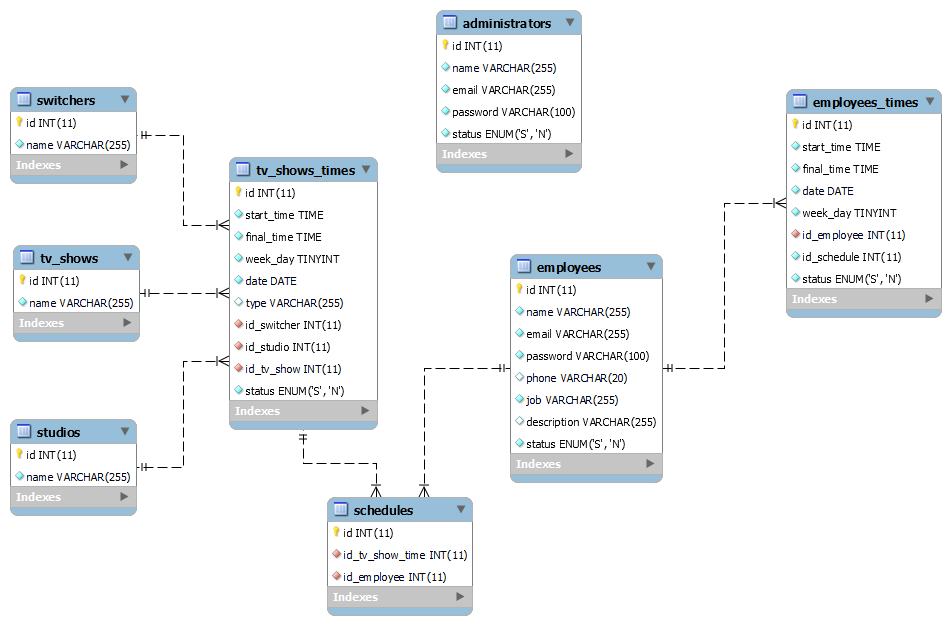
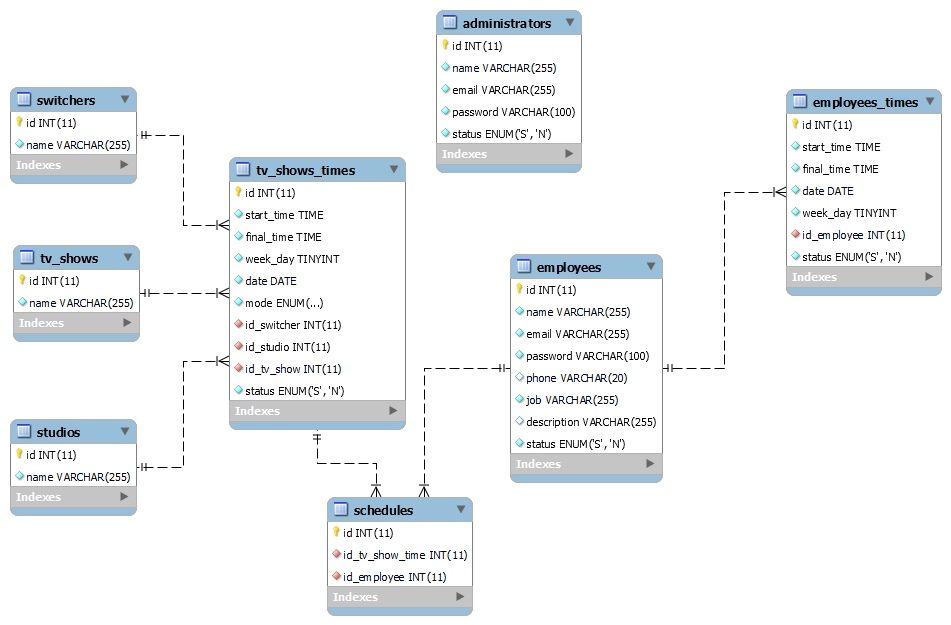
Ajustes no banco , MER, sessão e models

diff --git a/source/Models/EmployeeTime.php b/source/Models/EmployeeTime.php
@@ -14,11 +14,11 @@ class EmployeeTime extends Model
     protected ?int $id_employee;
     protected ?bool $status;
     protected static array $safe = ['id'];
-    protected static array $required = ['start_time', 'final_time', 'date', 'week_day'];
+    protected static array $required = ['start_time', 'final_time', 'date', 'week_day', 'id_employee'];
 
     public function __construct(
         ?int $id = null, ?string $startTime = null, ?string $finalTime = null,
-        ?string $date = null, ?int $week_day = null, ?int $idEmployee = null
+        ?string $date = null, ?int $week_day = null, ?int $id_employee = null
     )
     {
         $this->setId($id);
@@ -26,7 +26,7 @@ class EmployeeTime extends Model
         $this->setFinalTime($finalTime);
         $this->setDate($date);
         $this->setWeekDay($week_day);
-        $this->setIdEmployee($idEmployee);
+        $this->setIdEmployee($id_employee);
         $this->setStatus(true);
     }
 
@@ -90,9 +90,9 @@ class EmployeeTime extends Model
         return $this->id_employee;
     }
 
-    public function setIdEmployee($idEmployee)
+    public function setIdEmployee($id_employee)
     {
-        $this->id_employee = $idEmployee;
+        $this->id_employee = $id_employee;
         return $this;
     }
 
@@ -105,6 +105,15 @@ class EmployeeTime extends Model
     {
         $this->status = $status;
         return $this;
+    }
+
+    public function employee() : ?Employee
+    {
+        if ($this->id_employee) {
+            return (new EmployeeDAO())->findById($this->id_employee);
+        }
+
+        return null;
     }
 
     public function __toString()

diff --git a/source/Controllers/Home.php b/source/Controllers/Home.php
@@ -34,13 +34,43 @@ class Home extends Controller
             $email = filter_input(INPUT_POST, 'email', FILTER_SANITIZE_STRIPPED);
             $password = filter_input(INPUT_POST, 'password', FILTER_SANITIZE_STRIPPED);
             
+
+
+            $employeeDao = new EmployeeDAO();
+            if (!$employeeDao->login($email, $password)) {
+                $error = $employeeDao->message()->getText();
+            }
+
+
+           
+
+        }
+
+        $data = [
+            'title' => 'Business Schedule - Login',
+            'file' => 'signin',
+            'error' => $error
+        ];
+
+        echo $this->view->render('signin', $data);
+    }
+
+    public function signinAdm() : void
+    {
+        if (session()->__get('idUser')) {
+            redirect('/home');
+        }
+
+        $error = null;
+
+        if ($_POST) {
+            $email = filter_input(INPUT_POST, 'email', FILTER_SANITIZE_STRIPPED);
+            $password = filter_input(INPUT_POST, 'password', FILTER_SANITIZE_STRIPPED);
+            
             $adminDao = new AdministratorDAO();
             if (!$adminDao->login($email, $password)) {
 
-                $employeeDao = new EmployeeDAO();
-                if (!$employeeDao->login($email, $password)) {
-                    $error = $employeeDao->message()->getText();
-                }
+                $error = $adminDao->message()->getText();
 
             }
 

diff --git a/source/Models/Schedule.php b/source/Models/Schedule.php
@@ -53,6 +53,24 @@ class Schedule extends Model
         return $this;
     }
 
+    public function employee() : ?Employee
+    {
+        if ($this->id_employee) {
+            return (new EmployeeDAO())->findById($this->id_employee);
+        }
+
+        return null;
+    }
+
+    public function tvShowTime() : ?TvShowTimeDAO
+    {
+        if ($this->id_tv_show_time) {
+            return (new TvShowTimeDAO())->findById($this->id_tv_show_time);
+        }
+
+        return null;
+    }
+
     public function __toString()
     {
         return "ID: {$this->id} - Id do Funcionario: {$this->id_employee} -

diff --git a/source/Core/Core.php b/source/Core/Core.php
@@ -15,12 +15,14 @@ class Core
         $route->get('/', 'Home:index');
         $route->get('/home', 'Home:index');
         $route->get('/entrar', 'Home:signin');
+        $route->get('/entrarAdm', 'Home:signinAdm');
         $route->get('/sair', 'Home:signout');
         $route->get('/sobre', 'Home:about');
         //$route->get('/escalas', 'Home:schedule');
         $route->get('/recuperarSenha', 'Home:forgotPassword');
         
         $route->post('/entrar', 'Home:signin');
+        $route->post('/entrarAdm', 'Home:signinAdm');
         
         $route->get('/escala', 'Schedule:index');
 
